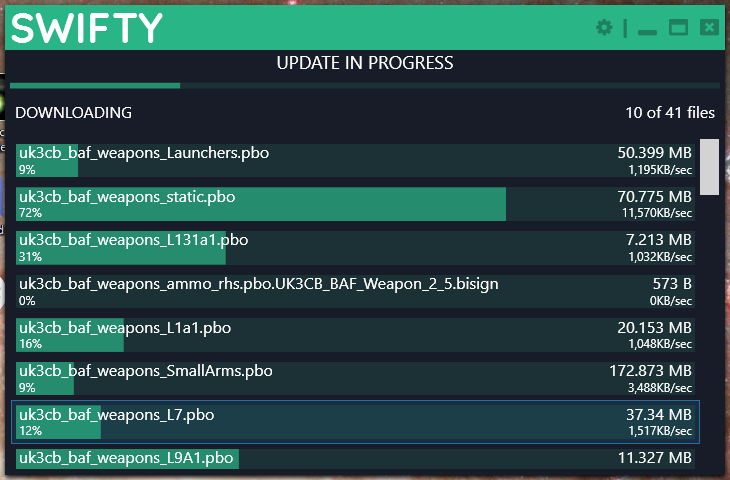
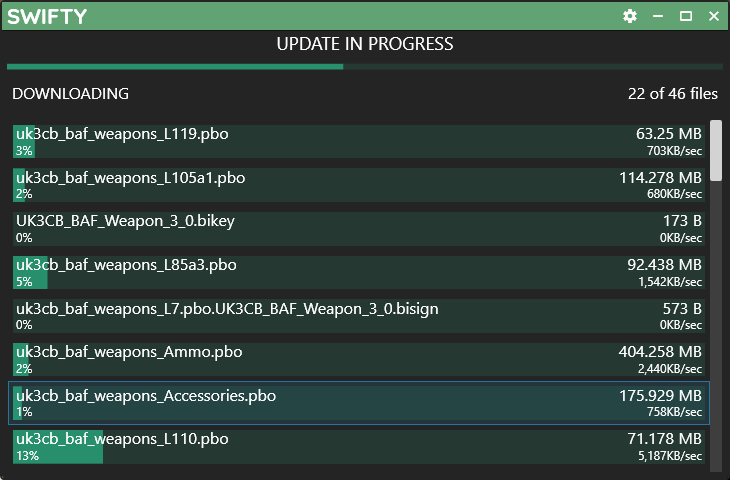
Update for newer Swifty and no Test repo

diff --git a/content/swifty/swifty3/index.md b/content/swifty/swifty3/index.md
@@ -50,21 +50,20 @@ directories per-pack when we later add the individual modpacks.
 The concurrent download slider should typically set to 5 or so, higher if you
 have a fast internet connection and an SSD.
 
-WARNING: There is a cleanup section in Swifty. At the time of this writing
-(June 2019), the functionality there is buggy in that it may delete mods that
-you actually need, so we advise to not use it for the time being.
+**Important:** I recommend closing and reopening Swifty if you have changed
+settings. Especially the temporary directory setting seems to sometimes only
+apply after a restart of Swifty.
 
 ## Adding the modpack(s)
 
 The so-called Event modpack (also called the Event repo) is likely the first
-modpack you want to download. It's definitely on the bigger side (~47G), so
+modpack you want to download. It's definitely on the bigger side (>50G), so
 this will take some time.
 
 The URLs for the modpacks are:
 
-- Event: `https://swifty.projectawesome.net/event3/`
-- WW2: `https://swifty.projectawesome.net/ww6/`
-- Test Repo: `https://swifty.projectawesome.net/test/`
+- Event: `https://swifty.projectawesome.net/event/`
+- WW2: `https://swifty.projectawesome.net/ww2/`
 
 The next screen should look roughly like this:
 
@@ -85,9 +84,9 @@ share this directory between different modpacks/repos. They tend to stomp on
 each other's file, causing frequent re-downloads and other stranger issues.
 
 I typically recommend to disable `Autocheck on startup`, since that operation
-can take a long time, and we don't have updates all that frequently.
-Typically, modpack updates will be announced on Discord and Reddit, so you can
-always manually sync when it happens.
+can take a long time, and we don't have updates all that frequently. Typically,
+modpack updates will be announced on Discord, so you can always manually sync
+when it happens.
 
 The other tabs (`Credentials`, `Addons` and `External Addons`) don't need to
 be touched for now.
@@ -108,10 +107,12 @@ Click `Download` and off it goes:
 
 <img src="swifty3_dling.png">
 
-After everything is downloaded, Swifty will do some patching (this again take
-a minute or so), and you're good to go. Note how the `Check for Updates` button
-has changed to `Join`.  If it hasn't, close Swifty, open it again and run
-another check; this may need 2-3 repeats due to a known bug.
+After everything is downloaded, Swifty will do some patching (this again takes
+a minute or so). It may still have that red rectangle for checking. Just rerun
+the check until it dissappears. While annoying, it is how Swifty works at the
+moment. Eventually, the red box should go away. If you have trouble with the
+recheck taking a very long time, poke os on Discord (`#arma-support`) and we
+will try and help.
 
 If you now click `Join`, Swifty will load Arma with the modpack and directly
 connect to the server. If you want to do mission editing, or play around in the
@@ -153,9 +154,9 @@ modpack:
 <img src="swifty3_ext_addons.png">
 
 NOTE: When editing missions, it can happen that these addtional mods create
-spurious dependencies (at least JSRS and Blastcore are know to do so). The
-easiest way to handle this is to have two separate tiles in Swifty's menu, one
-for playing one for editing. You can of course use the same mod dir, so you
+spurious dependencies (at least JSRS and Blastcore are known to do so). The
+easiest way to handle this is to have two separate entries in Swifty's menu,
+one for playing one for editing. You can of course use the same mod dir, so you
 don't have duplicate mods. 
 
 <img src="swifty3_main_full.png">

diff --git a/content/_index.md b/content/_index.md
@@ -13,7 +13,6 @@ This site lists assorted documentation for Arma 3, geared towards PA's needs.
   - [TFAR 1.x for players](mods/tfar_update/)
   - [TFAR 1.x for mission makers](mods/tfar1mm/)
   - [Useful Client-side mods](mods/clientside_mods/)
-  - [Mod updates (1H2019)](mods/mod_updates/)
 - [Mission Making](mission_making/)
   - [PA mission making guide](mission_making/guide)
   - [Mission making checklist](mission_making/checklist)
